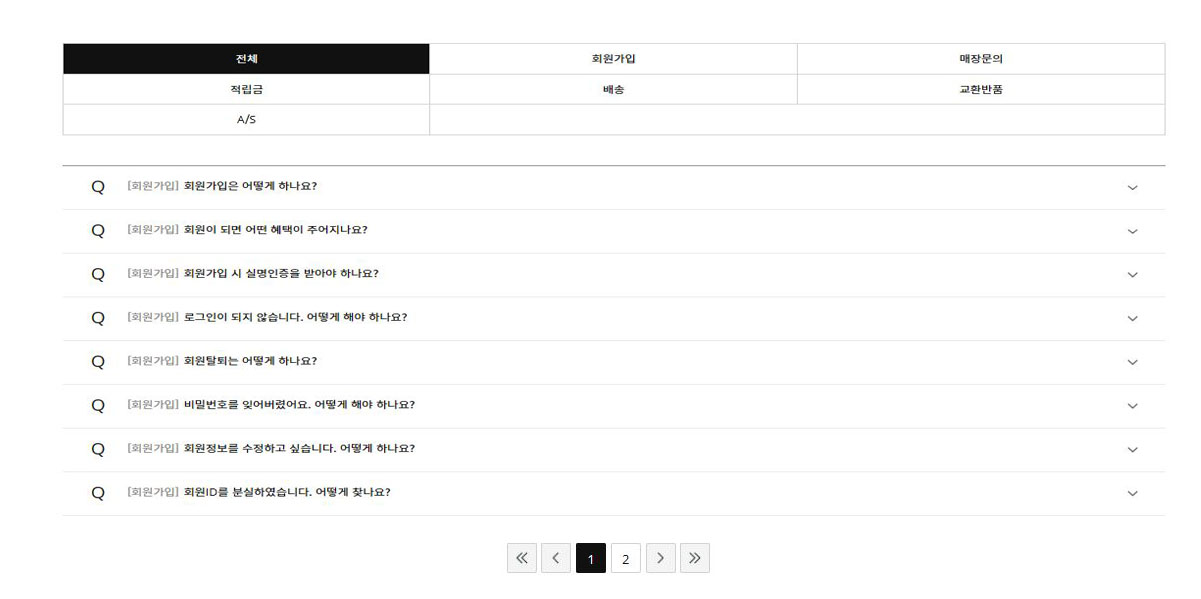
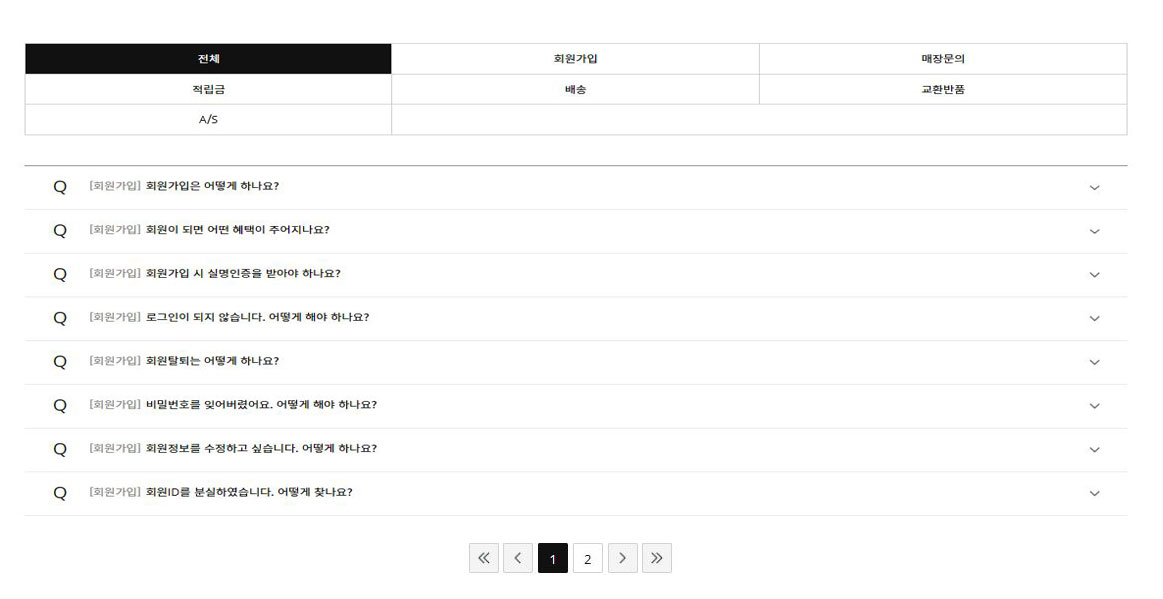
qna

diff --git a/index.html b/index.html
@@ -29,21 +29,23 @@
 		<td rowspan="6">
 			<img src="images/index_04.jpg" width="2" height="913" alt=""></td>
 		<td rowspan="5">
-			<img src="images/index_05.jpg" width="42" height="912" alt=""></td>
+			<img src="images/index_05.jpg" width="80" height="912" alt=""></td>
 		<td colspan="2">
-			<img src="images/index_06.jpg" width="108" height="104" alt=""></td>
-		<td colspan="2">
-			<img src="images/index_07.jpg" width="193" height="104" alt=""></td>
+			<img src="images/index_06.jpg" width="2" height="104" alt=""></td>
 		<td>
-			<img src="images/index_08.jpg" width="2" height="104" alt=""></td>
+			<img src="images/index_07.jpg" width="112" height="104" alt=""></td>
 		<td colspan="2">
-			<img src="images/index_09.jpg" width="251" height="104" alt=""></td>
+			<img src="images/index_08.jpg" width="182" height="104" alt=""></td>
 		<td colspan="2">
-			<img src="images/index_10.jpg" width="247" height="104" alt=""></td>
+			<img src="images/index_09.jpg" width="254" height="104" alt=""></td>
+		<td colspan="2">
+			<a href="https://psa226.github.io/workshop/">
+				<img src="images/&#xce5c;&#xd658;&#xacbd;-&#xc7a5;&#xc778;.jpg" width="254" height="104" border="0" alt=""></a></td>
 		<td>
-			<img src="images/index_11.jpg" width="200" height="104" alt=""></td>
+			<a href="https://psa226.github.io/community/">
+				<img src="images/&#xcee4;&#xbba4;&#xb2c8;&#xd2f0;.jpg" width="191" height="104" border="0" alt=""></a></td>
 		<td>
-			<img src="images/index_12.jpg" width="200" height="104" alt=""></td>
+			<img src="images/index_12.jpg" width="168" height="104" alt=""></td>
 		<td rowspan="6">
 			<img src="images/index_13.jpg" width="1" height="913" alt=""></td>
 		<td rowspan="5">
@@ -52,18 +54,18 @@
 			<img src="images/&#xc2a4;&#xd398;&#xc774;&#xc11c;.gif" width="1" height="104" alt=""></td>
 	</tr>
 	<tr>
-		<td colspan="11">
-			<img src="images/index_15.jpg" width="1201" height="28" alt=""></td>
+		<td rowspan="2">
+			<img src="images/index_15.jpg" width="1" height="78" alt=""></td>
+		<td colspan="10">
+			<img src="images/index_16.jpg" width="1162" height="28" alt=""></td>
 		<td>
 			<img src="images/&#xc2a4;&#xd398;&#xc774;&#xc11c;.gif" width="1" height="28" alt=""></td>
 	</tr>
 	<tr>
-		<td>
-			<img src="images/index_16.jpg" width="39" height="50" alt=""></td>
-		<td colspan="2">
+		<td colspan="3">
 			<a href="https://psa226.github.io/news/">
 				<img src="images/&#xce5c;&#xd658;&#xacbd;-&#xc18c;&#xc2dd;.jpg" width="217" height="50" border="0" alt=""></a></td>
-		<td colspan="3">
+		<td colspan="2">
 			<a href="https://psa226.github.io/trans/">
 				<img src="images/&#xc911;&#xace0;&#xac70;&#xb798;.jpg" width="234" height="50" border="0" alt=""></a></td>
 		<td colspan="2">
@@ -75,19 +77,19 @@
 	</tr>
 	<tr>
 		<td colspan="11">
-			<img src="images/index_21.jpg" width="1201" height="599" alt=""></td>
+			<img src="images/index_21.jpg" width="1163" height="599" alt=""></td>
 		<td>
 			<img src="images/&#xc2a4;&#xd398;&#xc774;&#xc11c;.gif" width="1" height="599" alt=""></td>
 	</tr>
 	<tr>
 		<td colspan="11" rowspan="2">
-			<img src="images/index_22.jpg" width="1201" height="132" alt=""></td>
+			<img src="images/index_22.jpg" width="1163" height="132" alt=""></td>
 		<td>
 			<img src="images/&#xc2a4;&#xd398;&#xc774;&#xc11c;.gif" width="1" height="131" alt=""></td>
 	</tr>
 	<tr>
 		<td>
-			<img src="images/index_23.jpg" width="42" height="1" alt=""></td>
+			<img src="images/index_23.jpg" width="80" height="1" alt=""></td>
 		<td>
 			<img src="images/index_24.jpg" width="74" height="1" alt=""></td>
 		<td>
@@ -103,29 +105,29 @@
 		<td>
 			<img src="images/&#xc2a4;&#xd398;&#xc774;&#xc11c;.gif" width="2" height="1" alt=""></td>
 		<td>
-			<img src="images/&#xc2a4;&#xd398;&#xc774;&#xc11c;.gif" width="42" height="1" alt=""></td>
+			<img src="images/&#xc2a4;&#xd398;&#xc774;&#xc11c;.gif" width="80" height="1" alt=""></td>
 		<td>
-			<img src="images/&#xc2a4;&#xd398;&#xc774;&#xc11c;.gif" width="39" height="1" alt=""></td>
+			<img src="images/&#xc2a4;&#xd398;&#xc774;&#xc11c;.gif" width="1" height="1" alt=""></td>
 		<td>
-			<img src="images/&#xc2a4;&#xd398;&#xc774;&#xc11c;.gif" width="69" height="1" alt=""></td>
+			<img src="images/&#xc2a4;&#xd398;&#xc774;&#xc11c;.gif" width="1" height="1" alt=""></td>
 		<td>
-			<img src="images/&#xc2a4;&#xd398;&#xc774;&#xc11c;.gif" width="148" height="1" alt=""></td>
+			<img src="images/&#xc2a4;&#xd398;&#xc774;&#xc11c;.gif" width="112" height="1" alt=""></td>
 		<td>
-			<img src="images/&#xc2a4;&#xd398;&#xc774;&#xc11c;.gif" width="45" height="1" alt=""></td>
+			<img src="images/&#xc2a4;&#xd398;&#xc774;&#xc11c;.gif" width="104" height="1" alt=""></td>
 		<td>
-			<img src="images/&#xc2a4;&#xd398;&#xc774;&#xc11c;.gif" width="2" height="1" alt=""></td>
+			<img src="images/&#xc2a4;&#xd398;&#xc774;&#xc11c;.gif" width="78" height="1" alt=""></td>
 		<td>
-			<img src="images/&#xc2a4;&#xd398;&#xc774;&#xc11c;.gif" width="187" height="1" alt=""></td>
+			<img src="images/&#xc2a4;&#xd398;&#xc774;&#xc11c;.gif" width="156" height="1" alt=""></td>
 		<td>
-			<img src="images/&#xc2a4;&#xd398;&#xc774;&#xc11c;.gif" width="64" height="1" alt=""></td>
+			<img src="images/&#xc2a4;&#xd398;&#xc774;&#xc11c;.gif" width="98" height="1" alt=""></td>
 		<td>
-			<img src="images/&#xc2a4;&#xd398;&#xc774;&#xc11c;.gif" width="124" height="1" alt=""></td>
+			<img src="images/&#xc2a4;&#xd398;&#xc774;&#xc11c;.gif" width="90" height="1" alt=""></td>
 		<td>
-			<img src="images/&#xc2a4;&#xd398;&#xc774;&#xc11c;.gif" width="123" height="1" alt=""></td>
+			<img src="images/&#xc2a4;&#xd398;&#xc774;&#xc11c;.gif" width="164" height="1" alt=""></td>
 		<td>
-			<img src="images/&#xc2a4;&#xd398;&#xc774;&#xc11c;.gif" width="200" height="1" alt=""></td>
+			<img src="images/&#xc2a4;&#xd398;&#xc774;&#xc11c;.gif" width="191" height="1" alt=""></td>
 		<td>
-			<img src="images/&#xc2a4;&#xd398;&#xc774;&#xc11c;.gif" width="200" height="1" alt=""></td>
+			<img src="images/&#xc2a4;&#xd398;&#xc774;&#xc11c;.gif" width="168" height="1" alt=""></td>
 		<td>
 			<img src="images/&#xc2a4;&#xd398;&#xc774;&#xc11c;.gif" width="1" height="1" alt=""></td>
 		<td>
